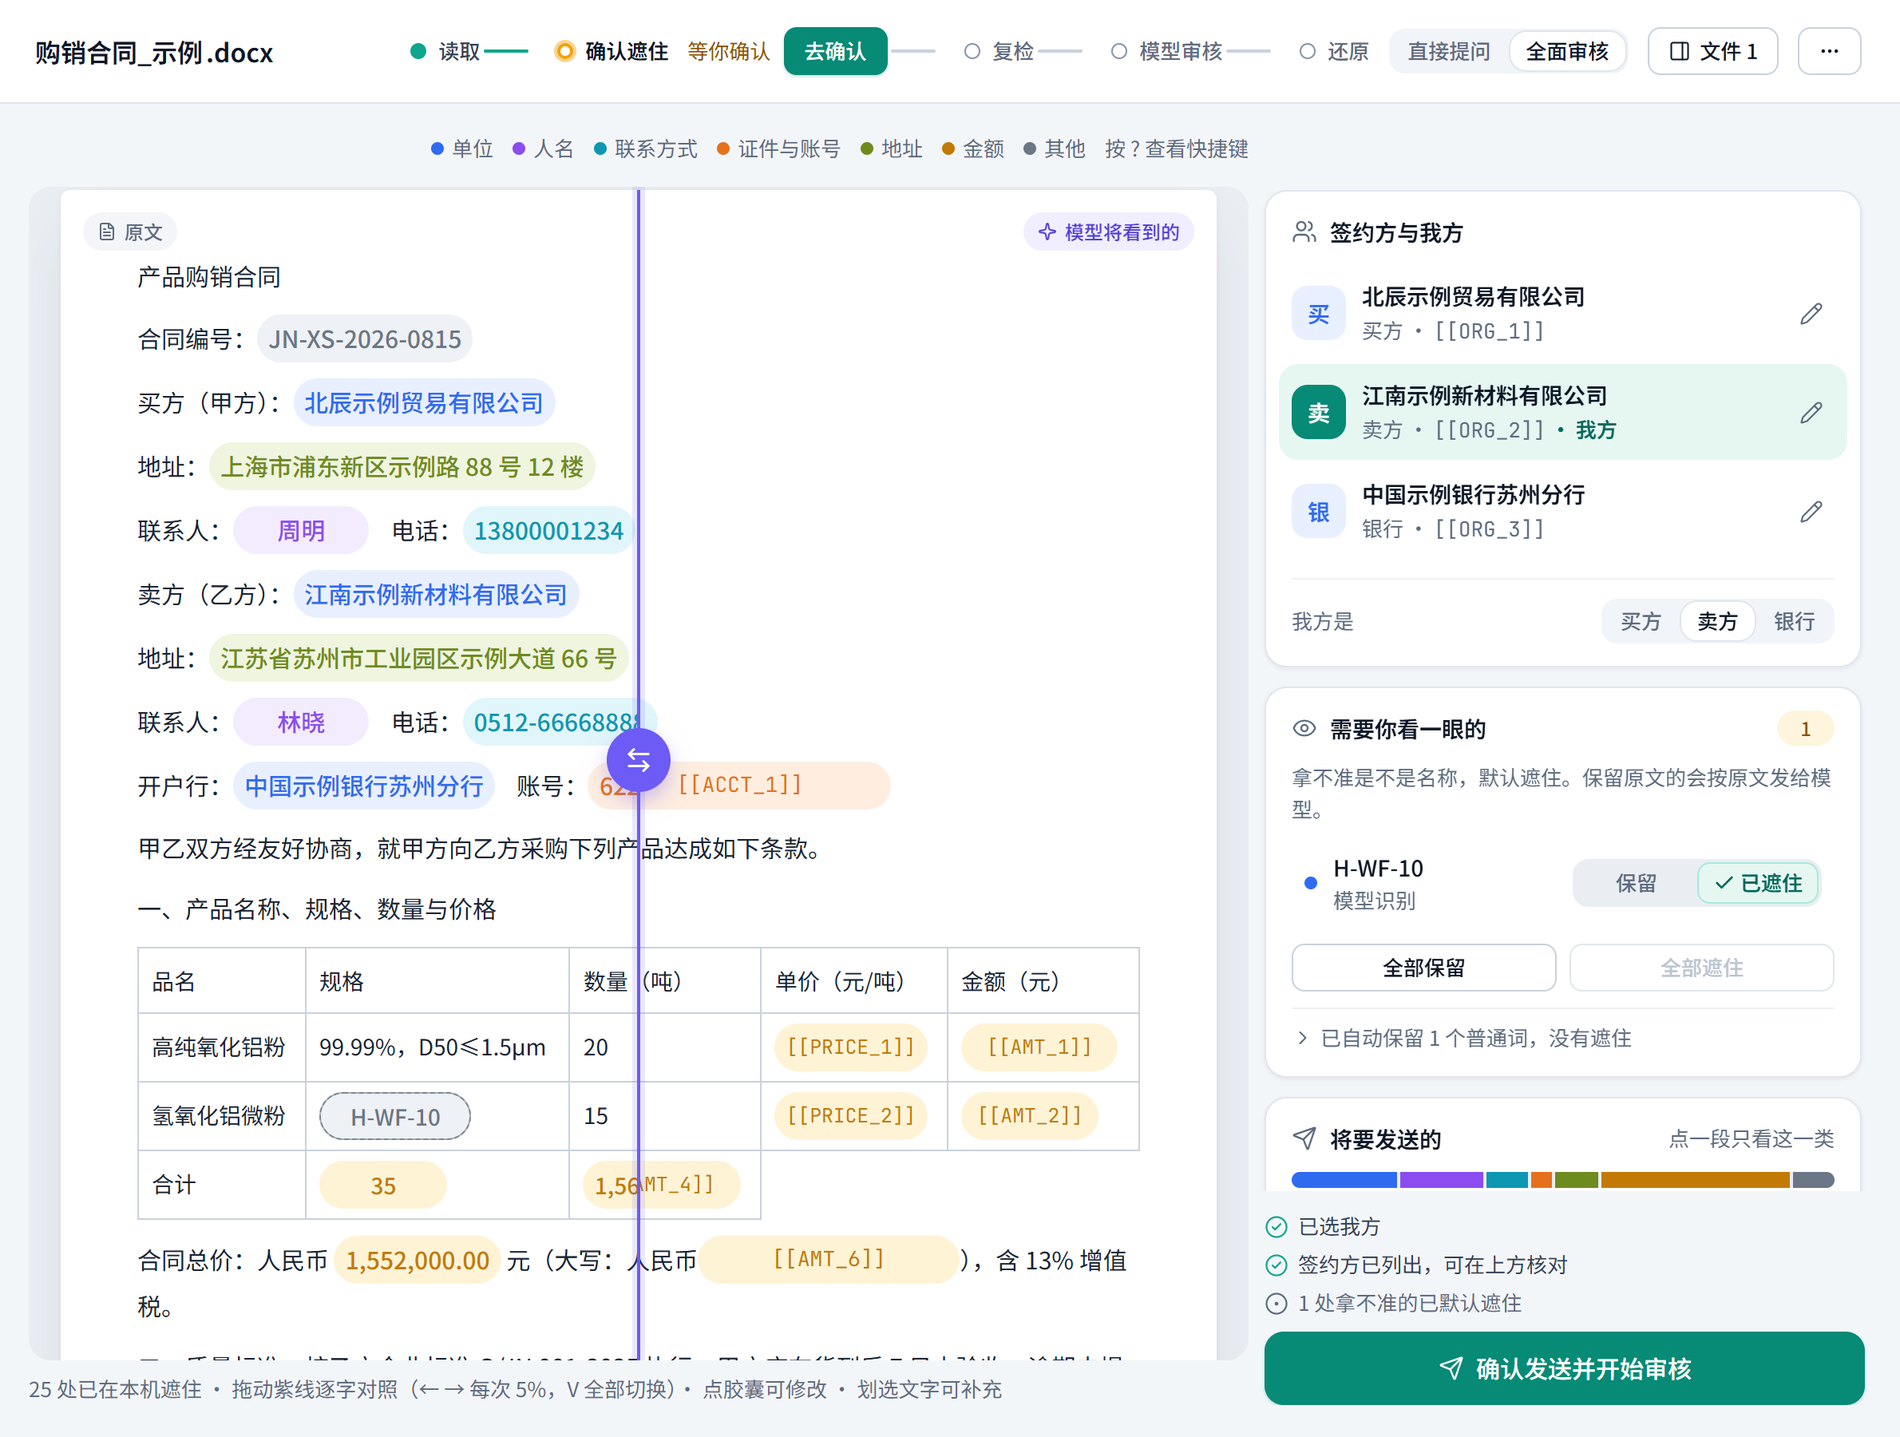
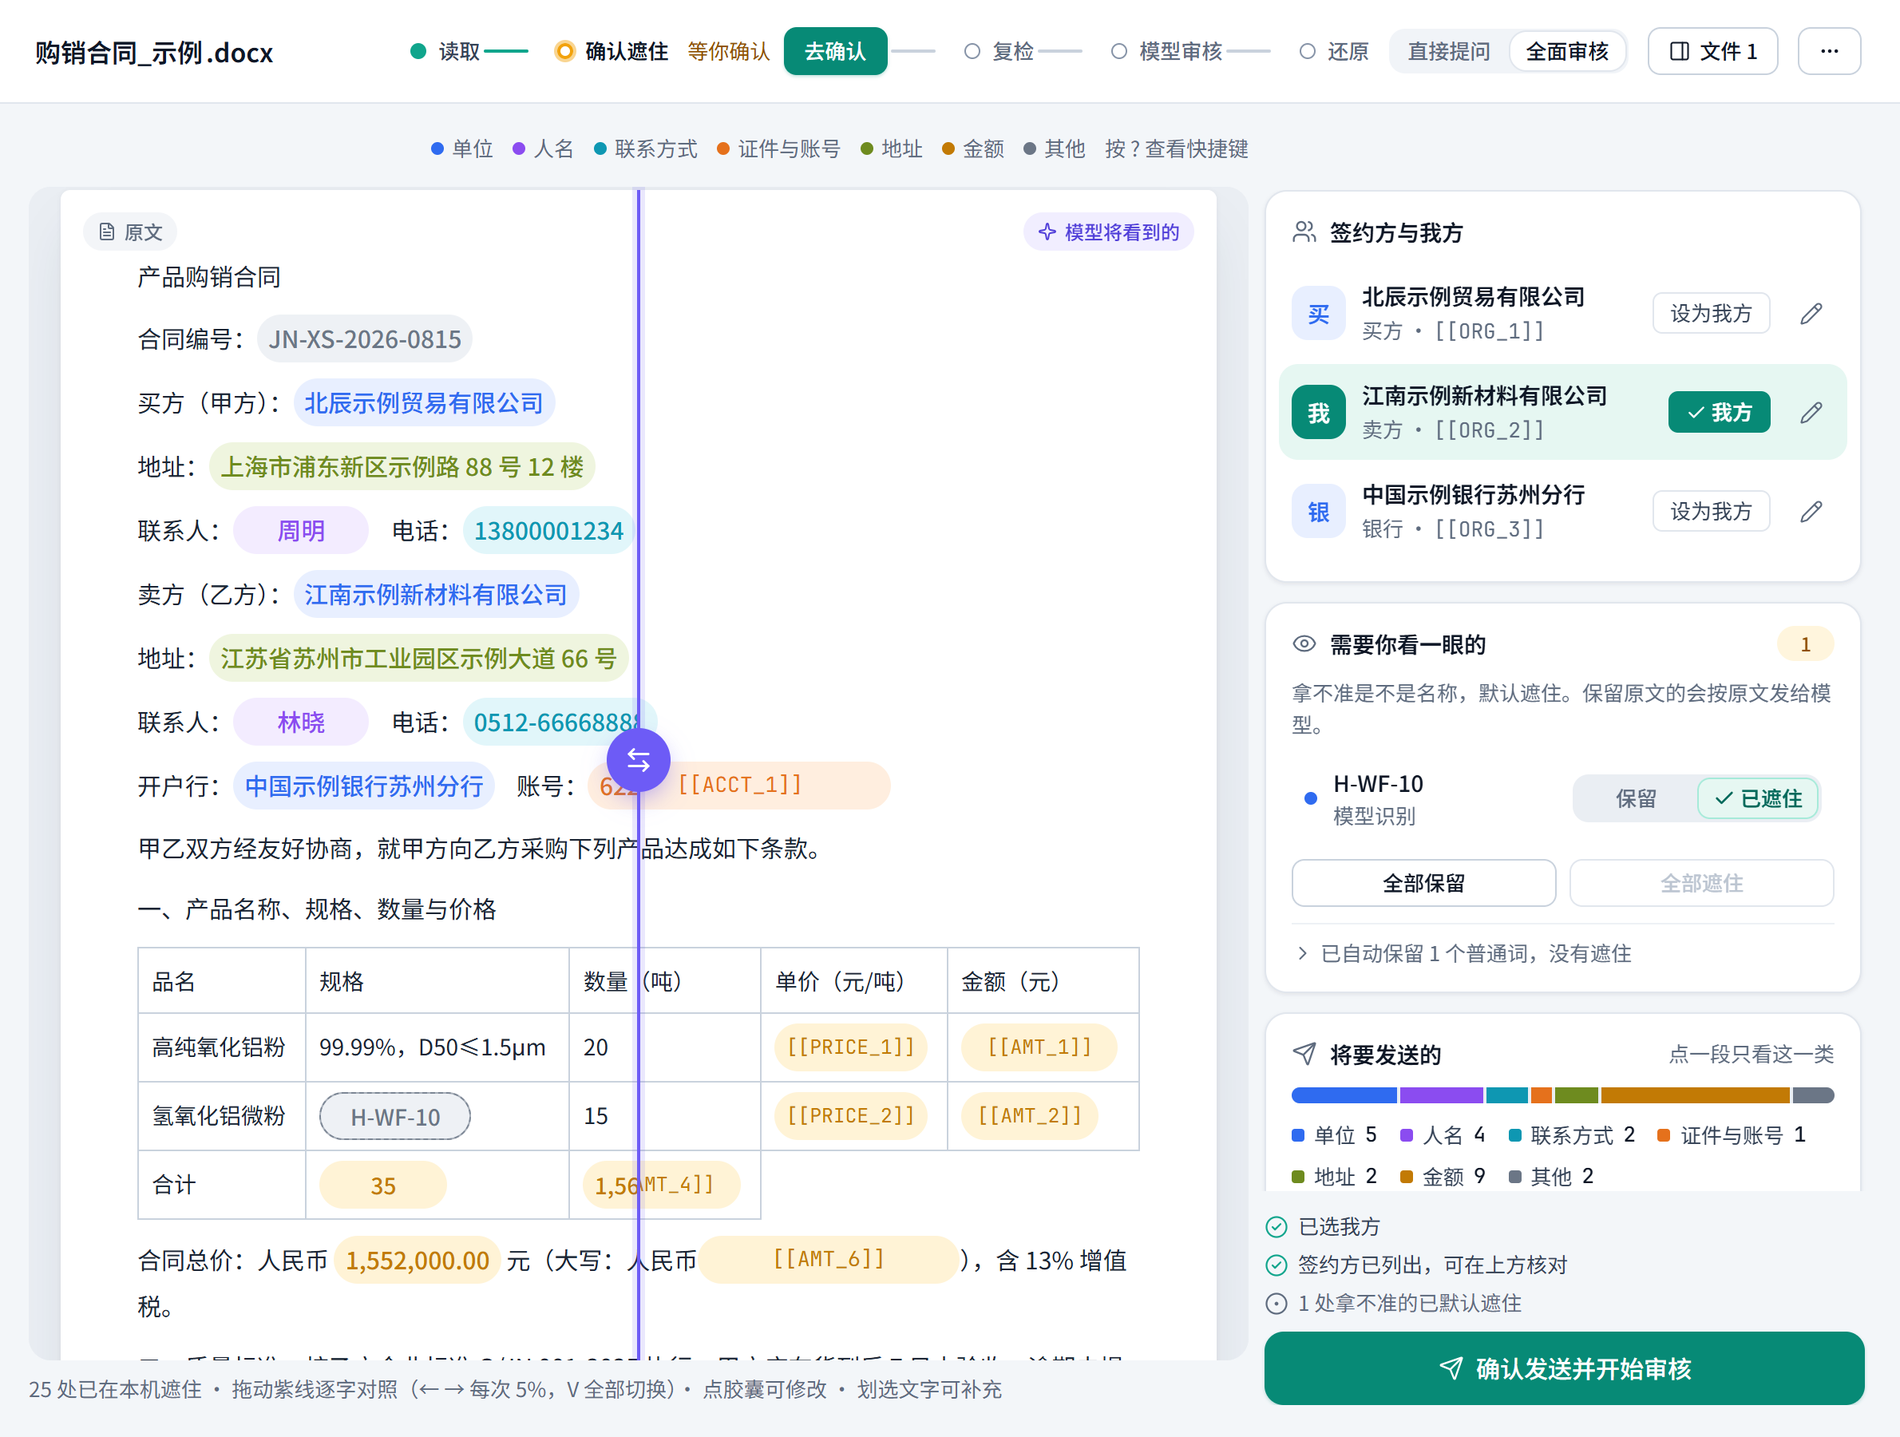
DOC-V36 Follow the 3.6.2 confirm page and version
Recapture the confirm page for the per-row 'set as our party' button, adjust
the manual and quick card wording, and mark the documents as V3.6.2.

diff --git a/docs/manual/quickcard/index.html b/docs/manual/quickcard/index.html
@@ -69,7 +69,7 @@ footer{margin-top:auto;font-size:8.5pt;color:var(--ink3);display:flex;justify-co
     <h2>文件审核四步</h2>
     <div class="row flow">
       <div class="card"><b>① 上传</b><span class="small">拖入或 Ctrl+V 粘贴；合同、报价、函件，最多 10 份</span></div>
-      <div class="card"><b>② 确认脱敏</b><span class="small">选“我方是”；看一眼“需要你看一眼的”；拖紫线对照模型将看到的</span></div>
+      <div class="card"><b>② 确认脱敏</b><span class="small">在本公司一行点“设为我方”；看一眼“需要你看一眼的”；拖紫线对照模型将看到的</span></div>
       <div class="card ai"><b>③ 云端审核</b><span class="small">只发遮住后的文字；发前本机再复检，可离开页面</span></div>
       <div class="card"><b>④ 处理与导出</b><span class="small">点意见定位原文；采纳、忽略、追问；导出报告或批注版</span></div>
     </div>

diff --git a/docs/manual/tools/build_docs.py b/docs/manual/tools/build_docs.py
@@ -192,7 +192,7 @@ def build(name):
                 meta.append(lines[i])
             i += 1
     else:
-        meta = ["| 项目 | 内容 |", "| 适用版本 | V3.6.0 |"]
+        meta = ["| 项目 | 内容 |", "| 适用版本 | V3.6.2 |"]
     for _ in range(6):
         doc.add_paragraph()
     mark = SRC / "manual" / "img" / "brand-mark.png"

diff --git a/docs/manual/系统使用说明书.md b/docs/manual/系统使用说明书.md
@@ -2,7 +2,7 @@
 
 | 项目 | 内容 |
 |-|-|
-| 适用版本 | V3.6.0 |
+| 适用版本 | V3.6.2 |
 | 读者 | 使用篇：全体使用人员；管理篇：业务管理员、系统管理员 |
 | 日期 | 2026-11-28 |
 
@@ -89,7 +89,7 @@
 
 | 区块 | 你要做的 |
 |-|-|
-| 签约方与我方 | 核对列出的签约方；在“我方是”中点选哪一方是本公司（全面审核必须选）。点铅笔可修改国家、类型 |
+| 签约方与我方 | 核对列出的签约方；在本公司那一行点“设为我方”（全面审核必须选）。点铅笔可修改国家、类型 |
 | 需要你看一眼的 | 系统拿不准的名称、缩写、型号，默认已遮住。确实不敏感的点“保留”，否则保持“已遮住”。可“全部保留”或“全部遮住” |
 | 将要发送的 | 本次发送的字数、已遮住的处数和分类；可“查看将发送的全文” |
 | 审核设置 | 业务立场（销售 / 采购 / 其他）、文件来源（我方发出 / 对方发来）、审核模型、本次补充说明、查看审核要求 |

diff --git a/docs/manual/README.md b/docs/manual/README.md
@@ -1,4 +1,4 @@
-# 交付文档（V3.6.0）
+# 交付文档（V3.6.2）
 
 | 文件 | 读者 | 源文件 | 成品（docs/manual/dist/，不进仓库） |
 |-|-|-|-|
@@ -27,7 +27,7 @@ python docs/manual/tools/build_demo.py
 
 ## 与 SPEC 的出入（留给下一阶段 Z 任务合并）
 
-按 v3.6.0 代码核对时发现，说明书以代码为准：
+按 v3.6.0～v3.6.2 代码核对时发现，说明书以代码为准：
 
 1. SPEC 第 4 节写“5 个容器”，实际为 db、app、worker、converter、web 加可选的 transcriber（asr）、translator（mt），另有 1 GiB 内存盘 invoice_mem（20.2 已写，第 4 节示意图未画）。
 2. SPEC 第 5 节目录树仍是早期结构：frontend/src/views 已有 Assistant、Bid、BidProject、ContractCompare、Invoice、Meeting、Translate 等页面，settings 下有 11 个分页；backend/app 另有 bid、invoice、kb、calc.py、content_drafts.py、local_models.py、models_api.py 等。

diff --git a/docs/manual/系统架构说明书.md b/docs/manual/系统架构说明书.md
@@ -3,7 +3,7 @@
 | 项目 | 内容 |
 |-|-|
 | 产品 | 商衡SI · 企业安全脱敏与智能审查平台 |
-| 适用版本 | V3.6.0（代码基线：标签 `v3.6.0`） |
+| 适用版本 | V3.6.2（代码基线：标签 `v3.6.2`） |
 | 读者 | 信息技术、信息安全、管理层；后续维护人员 |
 | 日期 | 2026-11-28 |
 | 配套文件 | 《系统使用说明书》《运维说明》；字段与阈值细节以 docs/SPEC.md 为准 |
